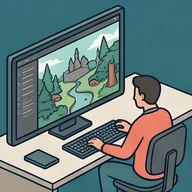
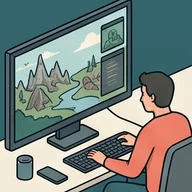
Use-case images for sector 16 (8 cards), new version for sector 15
Maintenance & upkeep tiles cut from its sector grid; media sector images
replaced by a regenerated grid. 112 of 128 cards now have an image;
sectors 12 and 17 still open.

diff --git a/index.html b/index.html
@@ -550,6 +550,14 @@ const CARD_IMG = {
   "Game development":"images/uc/15_media_entertainment__game-development.webp",
   "Generative 3D models":"images/uc/15_media_entertainment__generative-3d-models.webp",
   "Video & avatar generation":"images/uc/15_media_entertainment__video-avatar-generation.webp",
+  "Solar panel cleaning robots":"images/uc/16_maintenance__solar-panel-cleaning-robots.webp",
+  "Infrastructure / underwater inspection":"images/uc/16_maintenance__infrastructure-underwater-inspection.webp",
+  "Road damage detection & repair":"images/uc/16_maintenance__road-damage-detection-repair.webp",
+  "River & ocean plastic cleanup":"images/uc/16_maintenance__river-ocean-plastic-cleanup.webp",
+  "Sewer pipe inspection AI":"images/uc/16_maintenance__sewer-pipe-inspection-ai.webp",
+  "Facade & window cleaning robots":"images/uc/16_maintenance__facade-window-cleaning-robots.webp",
+  "Autonomous street cleaning":"images/uc/16_maintenance__autonomous-street-cleaning.webp",
+  "Rail predictive maintenance":"images/uc/16_maintenance__rail-predictive-maintenance.webp",
 };
 const CLUSTERS = [
   {n:1, cat:"phys", short:{en:"mobility & transport",de:"Mobilität & Transport"},
